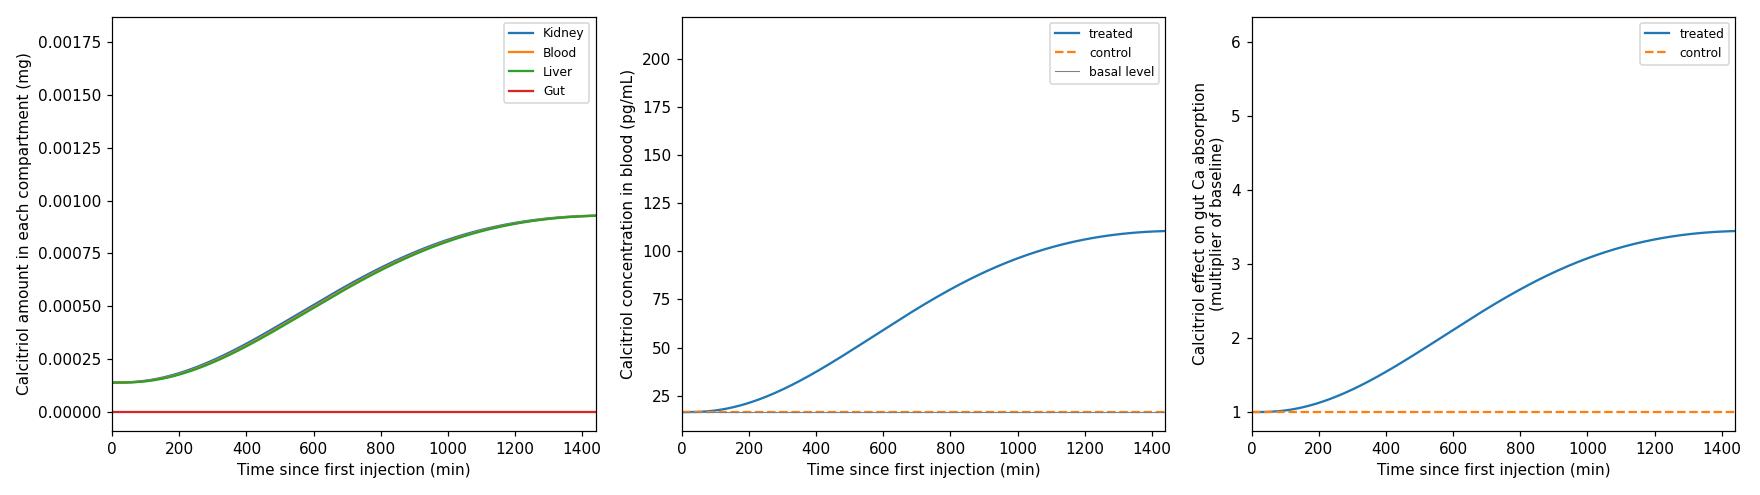
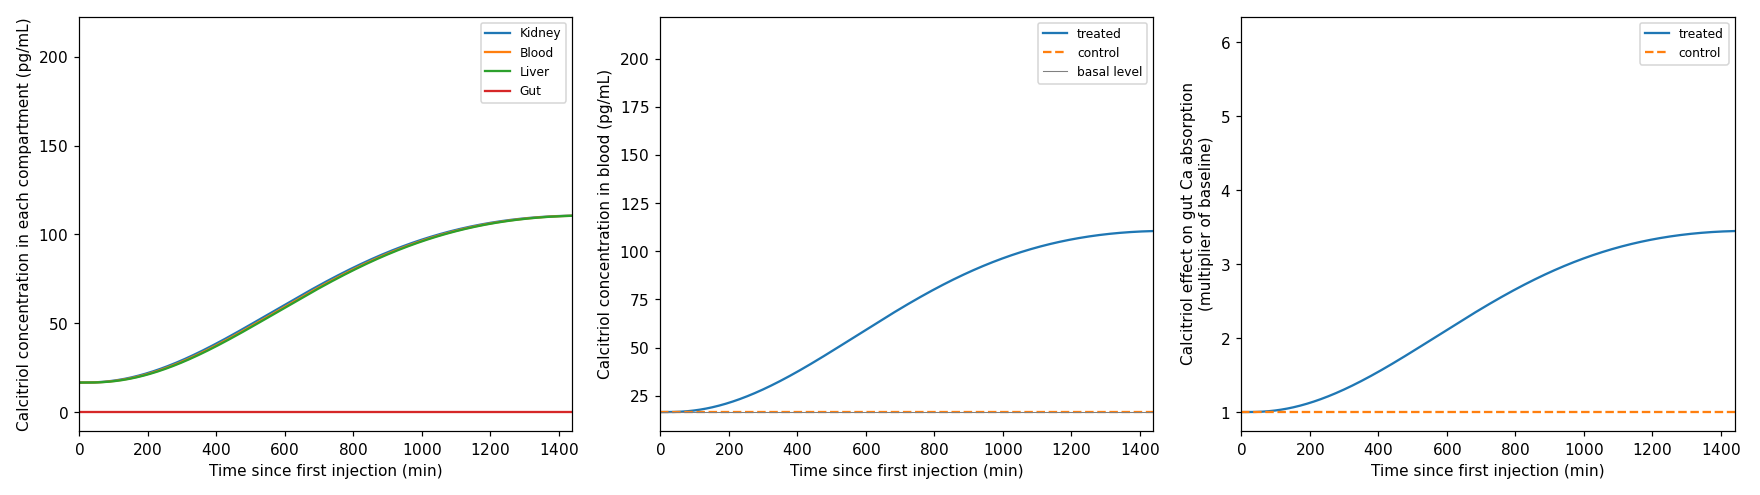
So churns the wheel of time

diff --git a/main.py b/main.py
@@ -6,7 +6,7 @@ WHAT IS MODELLED  (three linked compartment models, solved one after another)
   2. Calcitriol                            kidney, blood, liver, gut        <- driven by TPT in kidney
   3. Calcium                               intake, gut, blood, kidney, bone <- driven by TPT (kidney, bone) and calcitriol (blood)
 
-UNITS   TPT: mmol | calcitriol and calcium: mg | time: min | volume: L
+UNITS   TPT: mmol | calcitriol and calcium: mg | time: min | volume: L   (the figures show concentrations: pmol/L, ng/mL, pg/mL, mg/dL)
 
 HOW THE RESULTS ARE READ
   Every model is solved twice: TREATED (TPT injection) and CONTROL (no injection). Every compartment starts at
@@ -46,7 +46,8 @@ GREY_OVERDOSE_RANGE = (1.28, 1.39)      # +28% to +39% increase in the amount ta
 def apply_conditions(condition="healthy", seed = 0):
     """Apply the disease conditions, then recompute everything the parameter modules derived from the changed values.
     Call once after importing, and again to switch states.
-    Returns this draw's DOSE SCALE (dose relative to the 20 ug reference): 1.0 for every state except grey_market."""
+    Returns this draw's DOSE SCALE (dose relative to the 20 ug reference): 1.0 for every state except grey_market
+    (about 0.10-0.19) and control (0.0)."""
     np.random.seed(seed)   # same random draws for every condition, so differences come from the condition only
     dose_scale = 1.0
     # Reset modules to their base state for clean runs
@@ -66,6 +67,9 @@ def apply_conditions(condition="healthy", seed = 0):
         tpt.k_elimination_TPT = tpt.k_elimination_TPT / 1.77
         calcitriol.basal_calcitriol_produce_kidney *= 14.2 / 31.8
         calcitriol.calcitriol_half_life /= 0.45 / 0.58
+
+    if condition == "control":
+        dose_scale = 0.0   # healthy physiology, no TPT injected: treated = control, so every TPT effect should be 0
 
     if condition == "grey_market":
         # No calcitriol or calcium parameter changes are assumed; only the delivered dose differs.
@@ -120,11 +124,12 @@ PLOT_DETAIL_DAYS = 1               # TPT and calcitriol figures zoom to this man
 SINGLE_DOSE_DETAIL_HOURS = 24      # calcium figure: fast panels (amounts, blood Ca) zoom to this window; bone panels show all days
 BONE_PLOT_HOURS = 24               # bone-repair figure x-axis window in hours (None = whole run)
 # DOSE SCALE is relative to the standard 20 ug injection (1.0 = reference). It is set per case state by apply_conditions():
-# 1.0 for healthy / osteoporosis / renal_failure, and potency x overdose (about 0.10-0.19) for grey_market.
+# 1.0 for healthy / osteoporosis / renal_failure, potency x overdose (about 0.10-0.19) for grey_market, and 0.0 for
+# control (healthy, no TPT added).
 
 # MONTE CARLO: re-draw every uncertain parameter N_RUNS times and run each condition with the same draws.
 RUN_MONTE_CARLO = True             # set False to skip
-MC_CONDITIONS = ["healthy", "osteoporosis", "renal_failure", "grey_market"]   # case states the Monte Carlo runs
+MC_CONDITIONS = ["healthy", "osteoporosis", "renal_failure", "grey_market", "control"]   # case states run (healthy first: it sets the calibration)
 N_RUNS = 100
 STEP_MIN = 2                       # output time step (min)
 
@@ -175,6 +180,11 @@ ALP_FEEDS_BONE_FORMATION = True
 ALP_MAX_INCREASE = 0.78
 ALP_FULL_EFFECT_RISE_MG_PER_DL = 0.4   # mg/dL; same as LABEL_CALCIUM_PEAK_RISE_MG_PER_DL below
 
+# PLOT VOLUMES: figures show concentration = amount / volume. Only the blood volume (tpt.Vol_blood_in_bone) is defined in
+# the parameter files, so ASSUMPTION: every compartment is divided by it unless you give its own volume (L) here, e.g.
+# VOLUME_L = {"kidney": 0.3, "liver": 1.5, "bone": 4.0}. Keys: injection, blood, kidney, liver, gut, intake, bone.
+VOLUME_L = {}
+
 SAVE_FIGURES = True
 FIGURE_FORMAT = "png"             # "png": each figure as its own PNG; "pdf": one PDF per condition. Both save into the figures folder
 FIGURE_FOLDER = "figures"
@@ -196,6 +206,21 @@ def hill(amount, half_saturation, n):
     """Saturating 0-1 response: amount^n / (amount^n + H^n)."""
     amount = np.maximum(amount, 0.0)
     return amount**n / (amount**n + half_saturation**n)
+
+
+def vol(compartment):
+    """Volume (L) used to turn a compartment amount into a concentration for the figures."""
+    return VOLUME_L.get(compartment, tpt.Vol_blood_in_bone)
+
+
+def sci_axes(fig):
+    """Scientific notation on every axis of a figure (including twin axes), so tick labels need fewer zeros."""
+    for a in fig.axes:
+        for which in ("x", "y"):
+            try:
+                a.ticklabel_format(axis=which, style="sci", scilimits=(-2, 4), useOffset=False, useMathText=True)
+            except AttributeError:      # categorical axis (text tick labels): nothing to convert
+                pass
 
 
 def at_time(solution, row):
@@ -527,6 +552,7 @@ def compute_outputs(sim):
     out["TPT_peak_kidney_mmol"] = T.y[2].max()
     out["TPT_time_to_kidney_peak_min"] = t[first][np.argmax(T.y[2][first])]
     out["TPT_kidney_ng"] = T.y[2] * tpt.mol_weight_TPT * 1e6   # mmol * mg/mmol = mg; 1 mg = 1e6 ng
+    out["TPT_kidney_ng_per_mL"] = out["TPT_kidney_ng"] / vol("kidney") / 1000   # ng/L -> ng/mL
 
     # Calcitriol and calcium concentrations, treated vs control
     out["calcitriol_blood_pg_per_mL"] = C.y[1] / tpt.Vol_blood_in_bone * 1e6
@@ -564,7 +590,7 @@ def compute_outputs(sim):
     out["check_calcitriol_mass_error_mg"] = balance_error(C, 4)
     out["check_calcium_mass_error_mg"] = balance_error(A, 5)
     # relative to the amount in the system, so the three models can be compared
-    out["check_TPT_rel"] = out["check_TPT_mass_error_mmol"] / max(T.y[0, 0], 1e-300)
+    out["check_TPT_rel"] = out["check_TPT_mass_error_mmol"] / (T.y[0, 0] if T.y[0, 0] > 0 else T.y[:5, 0].sum())
     out["check_calcitriol_rel"] = out["check_calcitriol_mass_error_mg"] / C.y[:4, 0].sum()
     out["check_calcium_rel"] = out["check_calcium_mass_error_mg"] / A.y[:5, 0].sum()
     production = (calcitriol.basal_calcitriol_produce_kidney
@@ -633,15 +659,16 @@ def make_plots_daily(sim, out):
 
     # ---- Figure 1: TPT pharmacokinetics ----------------------------------------------------
     fig, ax = plt.subplots(2, 2, figsize=(12, 8))
-    for index, label in enumerate(["Injection site", "Blood", "Kidney", "Liver", "Bone"]):
-        ax[0, 0].plot(t, T.y[index], label=label)
-    ax[0, 0].set(ylabel="TPT amount in each compartment (mmol)")
+    for index, (key, label) in enumerate([("injection", "Injection site"), ("blood", "Blood"), ("kidney", "Kidney"),
+                                          ("liver", "Liver"), ("bone", "Bone")]):
+        ax[0, 0].plot(t, T.y[index] / vol(key) * 1e9, label=label)      # mmol/L -> pmol/L
+    ax[0, 0].set(ylabel="TPT concentration in each compartment (pmol/L)")
     ax[0, 0].legend(fontsize=8)
     ax[0, 1].plot(t, out["TPT_blood_concen_ng_per_mL"])
     peak_c = np.max(out["TPT_blood_concen_ng_per_mL"])
     ax[0, 1].set(ylabel="TPT concentration in blood (ng/mL)")
-    ax[1, 0].plot(t, out["TPT_kidney_ng"])
-    ax[1, 0].set(ylabel="TPT amount in kidney (ng)")
+    ax[1, 0].plot(t, out["TPT_kidney_ng_per_mL"])
+    ax[1, 0].set(ylabel="TPT concentration in kidney (ng/mL)")
     ax[1, 1].plot(t, out["rates"]["hill_kidney"], label="kidney Hill (treated)")
     ax[1, 1].plot(t, out["rates"]["hill_bone"], label="bone Hill (treated)")
     ax[1, 1].plot(t, out["rates_control"]["hill_kidney"], "--", label="kidney Hill (control)")
@@ -650,13 +677,13 @@ def make_plots_daily(sim, out):
     ax[1, 1].set(ylabel="TPT effect signal (Hill fraction) / enzyme activity A (0 to 1)", ylim=(-0.02, 1.05))
     ax[1, 1].legend(fontsize=8)
     finish(ax)
-    fig.tight_layout(); figures["1_TPT"] = fig
+    sci_axes(fig); fig.tight_layout(); figures["1_TPT"] = fig
 
     # ---- Figure 2: calcitriol ---------------------------------------------------------------
     fig, ax = plt.subplots(1, 3, figsize=(16, 4.5))
-    for index, label in enumerate(["Kidney", "Blood", "Liver", "Gut"]):
-        ax[0].plot(t, C.y[index], label=label)
-    ax[0].set(ylabel="Calcitriol amount in each compartment (mg)"); ax[0].legend(fontsize=8)
+    for index, (key, label) in enumerate([("kidney", "Kidney"), ("blood", "Blood"), ("liver", "Liver"), ("gut", "Gut")]):
+        ax[0].plot(t, C.y[index] / vol(key) * 1e6, label=label)         # mg/L -> pg/mL
+    ax[0].set(ylabel="Calcitriol concentration in each compartment (pg/mL)"); ax[0].legend(fontsize=8)
     ax[1].plot(t, out["calcitriol_blood_pg_per_mL"], label="treated")
     ax[1].plot(t, out["calcitriol_blood_control_pg_per_mL"], "--", label="control")
     ax[1].axhline(calcium.calcitriol_basal_level * 1e6, color="gray", lw=0.7, label="basal level")
@@ -665,7 +692,7 @@ def make_plots_daily(sim, out):
     ax[2].plot(t, out["rates_control"]["calcitriol_impact"], "--", label="control")
     ax[2].set(ylabel="Calcitriol effect on gut Ca absorption\n(multiplier of baseline)"); ax[2].legend(fontsize=8)
     finish(ax)
-    fig.tight_layout(); figures["2_calcitriol"] = fig
+    sci_axes(fig); fig.tight_layout(); figures["2_calcitriol"] = fig
 
     return figures
 
@@ -679,20 +706,21 @@ def make_plots_single(sim, out):
     detail_days = SINGLE_DOSE_DETAIL_HOURS / 24    # zoom window for the fast calcium panels
     bone_xmax = BONE_PLOT_HOURS if BONE_PLOT_HOURS else hr[-1]
     figures = {}
+    to_conc = 1 / vol("bone") / 10                  # mg -> mg/dL in bone
 
     # ---- Figure 3: calcium (days) -----------------------------------------------------------
     fig, ax = plt.subplots(2, 2, figsize=(12, 8))
-    for index, label in enumerate(["Intake", "Gut", "Blood", "Kidney"]):
-        ax[0, 0].plot(d, A.y[index], label=label)
-    ax[0, 0].set(xlabel="Time since first injection (days)", ylabel="Calcium amount in each compartment (mg)", xlim=(0, detail_days))
+    for index, (key, label) in enumerate([("intake", "Intake"), ("gut", "Gut"), ("blood", "Blood"), ("kidney", "Kidney")]):
+        ax[0, 0].plot(d, A.y[index] / vol(key) / 10, label=label)       # mg/L -> mg/dL
+    ax[0, 0].set(xlabel="Time since first injection (days)", ylabel="Calcium concentration in each compartment (mg/dL)", xlim=(0, detail_days))
     ax[0, 0].legend(fontsize=8)
-    ax[0, 1].plot(d, A.y[4], label="treated")
-    ax[0, 1].plot(d, Ac.y[4], "--", label="control")
-    lo, hi = min(A.y[4].min(), Ac.y[4].min()), max(A.y[4].max(), Ac.y[4].max())
-    pad = max(0.15 * (hi - lo), 1.0)
+    bone_treated, bone_control = A.y[4] / vol("bone") / 10, Ac.y[4] / vol("bone") / 10      # mg/dL
+    ax[0, 1].plot(d, bone_treated, label="treated")
+    ax[0, 1].plot(d, bone_control, "--", label="control")
+    lo, hi = min(bone_treated.min(), bone_control.min()), max(bone_treated.max(), bone_control.max())
+    pad = 0.15 * (hi - lo) or 1e-3 * abs(hi) or 1.0
     ax[0, 1].set_ylim(lo - pad, hi + pad)
-    ax[0, 1].ticklabel_format(axis="y", style="plain", useOffset=False)
-    ax[0, 1].set(xlabel="Time since first injection (days)", ylabel="Calcium in bone (mg)")
+    ax[0, 1].set(xlabel="Time since first injection (days)", ylabel="Calcium concentration in bone (mg/dL)")
     ax[0, 1].legend(fontsize=8)
     for x in range(N_DOSES):
         ax[0, 1].axvline(x, color="gray", lw=0.4, alpha=0.4, zorder=0)
@@ -704,7 +732,7 @@ def make_plots_single(sim, out):
     ax[1, 1].axhline(LABEL_CALCIUM_PEAK_RISE_MG_PER_DL, color="gray", ls=":", label="label peak (+0.4)")
     ax[1, 1].set(xlabel="Time since first injection (days)", ylabel="TPT-driven rise in blood calcium\n(treated minus control, mg/dL)", xlim=(0, detail_days))
     ax[1, 1].legend(fontsize=8)
-    fig.tight_layout(); figures["3_calcium"] = fig
+    sci_axes(fig); fig.tight_layout(); figures["3_calcium"] = fig
     # ---- Figure 4: bone repair (ALP-driven formation) vs resorption (hours) ------------------
     fig, ax = plt.subplots(2, 2, figsize=(12, 8))
     ax[0, 0].plot(hr, out["ALP_increase_pct"], color="tab:green", label="ALP increase (%)")
@@ -714,21 +742,21 @@ def make_plots_single(sim, out):
     twin.plot(hr, out["Ca_blood_TPT_effect_mg_per_dL"], color="tab:red", ls="--", label="blood Ca rise")
     twin.set_ylabel("TPT-driven rise in blood calcium (mg/dL)")
     ax[0, 0].legend(loc="upper left", fontsize=8); twin.legend(loc="upper right", fontsize=8)
-    ax[0, 1].plot(hr, out["bone_formation_flux"] * 60, label="formation (repair), treated")
-    ax[0, 1].plot(hr, out["bone_formation_flux_control"] * 60, "--", label="formation, control")
-    ax[0, 1].plot(hr, out["bone_release_flux"] * 60, label="release (resorption), treated")
-    ax[0, 1].plot(hr, out["bone_release_flux_control"] * 60, "--", label="release, control")
-    ax[0, 1].set(xlabel="Time since first injection (h)", ylabel="Bone calcium flux (mg Ca per hour)")
+    ax[0, 1].plot(hr, out["bone_formation_flux"] * 60 * to_conc, label="formation (repair), treated")
+    ax[0, 1].plot(hr, out["bone_formation_flux_control"] * 60 * to_conc, "--", label="formation, control")
+    ax[0, 1].plot(hr, out["bone_release_flux"] * 60 * to_conc, label="release (resorption), treated")
+    ax[0, 1].plot(hr, out["bone_release_flux_control"] * 60 * to_conc, "--", label="release, control")
+    ax[0, 1].set(xlabel="Time since first injection (h)", ylabel="Bone calcium flux (mg/dL per hour)")
     ax[0, 1].legend(fontsize=8)
-    ax[1, 0].plot(hr, out["extra_formation_mg"], label="extra formation (repair)")
-    ax[1, 0].plot(hr, -out["extra_release_mg"], label="extra release (resorption), shown negative")
-    ax[1, 0].plot(hr, out["bone_Ca_levels_TPT_effect"], "k:", label="net change in bone Ca")
+    ax[1, 0].plot(hr, out["extra_formation_mg"] * to_conc, label="extra formation (repair)")
+    ax[1, 0].plot(hr, -out["extra_release_mg"] * to_conc, label="extra release (resorption), shown negative")
+    ax[1, 0].plot(hr, out["bone_Ca_levels_TPT_effect"] * to_conc, "k:", label="net change in bone Ca")
     ax[1, 0].axhline(0, color="gray", lw=0.7)
-    ax[1, 0].set(xlabel="Time since first injection (h)", ylabel="Cumulative TPT-driven change in\nbone calcium (mg)")
+    ax[1, 0].set(xlabel="Time since first injection (h)", ylabel="Cumulative TPT-driven change in\nbone calcium concentration (mg/dL)")
     ax[1, 0].legend(fontsize=8)
-    ax[1, 1].plot(hr, out["bone_Ca_levels_TPT_effect"])
+    ax[1, 1].plot(hr, out["bone_Ca_levels_TPT_effect"] * to_conc)
     ax[1, 1].axhline(0, color="gray", lw=0.7)
-    ax[1, 1].set(xlabel="Time since first injection (h)", ylabel="Net TPT effect on bone calcium\n(treated minus control, mg)")
+    ax[1, 1].set(xlabel="Time since first injection (h)", ylabel="Net TPT effect on bone calcium concentration\n(treated minus control, mg/dL)")
     for a in (ax[0, 0], ax[0, 1], ax[1, 0]):
         a.set_xlim(0, bone_xmax)
     twin.set_xlim(0, bone_xmax)
@@ -736,7 +764,7 @@ def make_plots_single(sim, out):
     for x in range(0, int(hr[-1]) + 1, 24):
         ax[1, 1].axvline(x, color="gray", lw=0.4, alpha=0.4, zorder=0)
 
-    fig.tight_layout(); figures["4_bone"] = fig
+    sci_axes(fig); fig.tight_layout(); figures["4_bone"] = fig
     return figures
 
 
@@ -783,6 +811,7 @@ def run_hydroxylase_sweep():
             a.plot(t0[window] / 60, curves[h][idx][window], lw=2 if h == 15 else 0.9, label=f"t1/2 = {h} h")
         a.set(xlabel="Time since first injection (h)", ylabel=label)
         a.legend(fontsize=7)
+    sci_axes(fig)
     fig.tight_layout()
     if SAVE_FIGURES:
         os.makedirs(FIGURE_FOLDER, exist_ok=True)
@@ -821,7 +850,7 @@ def run_monte_carlo():
             r["dose (x 20 ug)"].append(dose_scale)
             r["TPT peak (ng/mL)"].append(np.max(out["TPT_blood_concen_ng_per_mL"]))
             r["Ca rise peak (mg/dL)"].append(np.max(effect))
-            r["Ca peak time (h)"].append(sim["time"][first][np.argmax(effect[first])] / 60)
+            r["Ca peak time (h)"].append(sim["time"][first][np.argmax(effect[first])] / 60 if dose_scale > 0 else np.nan)
             r["calcitriol peak (x baseline)"].append(np.max(out["calcitriol_blood_pg_per_mL"]
                                                             / out["calcitriol_blood_control_pg_per_mL"]))
     print("=" * 78)
@@ -829,12 +858,15 @@ def run_monte_carlo():
     for condition, r in results.items():
         print(f"  {condition}  (n = {len(r['Ca rise peak (mg/dL)'])})")
         for label, values in r.items():
-            low, mid, high = np.percentile(values, [5, 50, 95])
+            if np.all(np.isnan(values)):
+                print(f"      {label:30s}     n/a  (no injection)")
+                continue
+            low, mid, high = np.nanpercentile(values, [5, 50, 95])
             print(f"      {label:30s} {mid:7.3f}  [{low:.3f} - {high:.3f}]")
 
     # One boxplot: one box per case state, coloured by condition
     fig, ax = plt.subplots(figsize=(9, 4.5))
-    colors = ["tab:blue", "tab:orange", "tab:purple", "tab:red"]
+    colors = ["tab:blue", "tab:orange", "tab:purple", "tab:red", "tab:gray"]
     box = ax.boxplot([results[condition]["Ca rise peak (mg/dL)"] for condition in MC_CONDITIONS],
                      positions=range(1, len(MC_CONDITIONS) + 1), widths=0.6, whis=(5, 95), patch_artist=True)
     for patch, color in zip(box["boxes"], colors):
@@ -845,6 +877,7 @@ def run_monte_carlo():
     ax.set(xlabel=f"Case state ({N_RUNS} Monte Carlo draws; box = 25-75%, whiskers = 5-95%)",
            ylabel="Peak TPT-driven rise in blood calcium (mg/dL)")
     ax.legend(fontsize=8)
+    sci_axes(fig)
     fig.tight_layout()
     if SAVE_FIGURES:
         os.makedirs(FIGURE_FOLDER, exist_ok=True)
